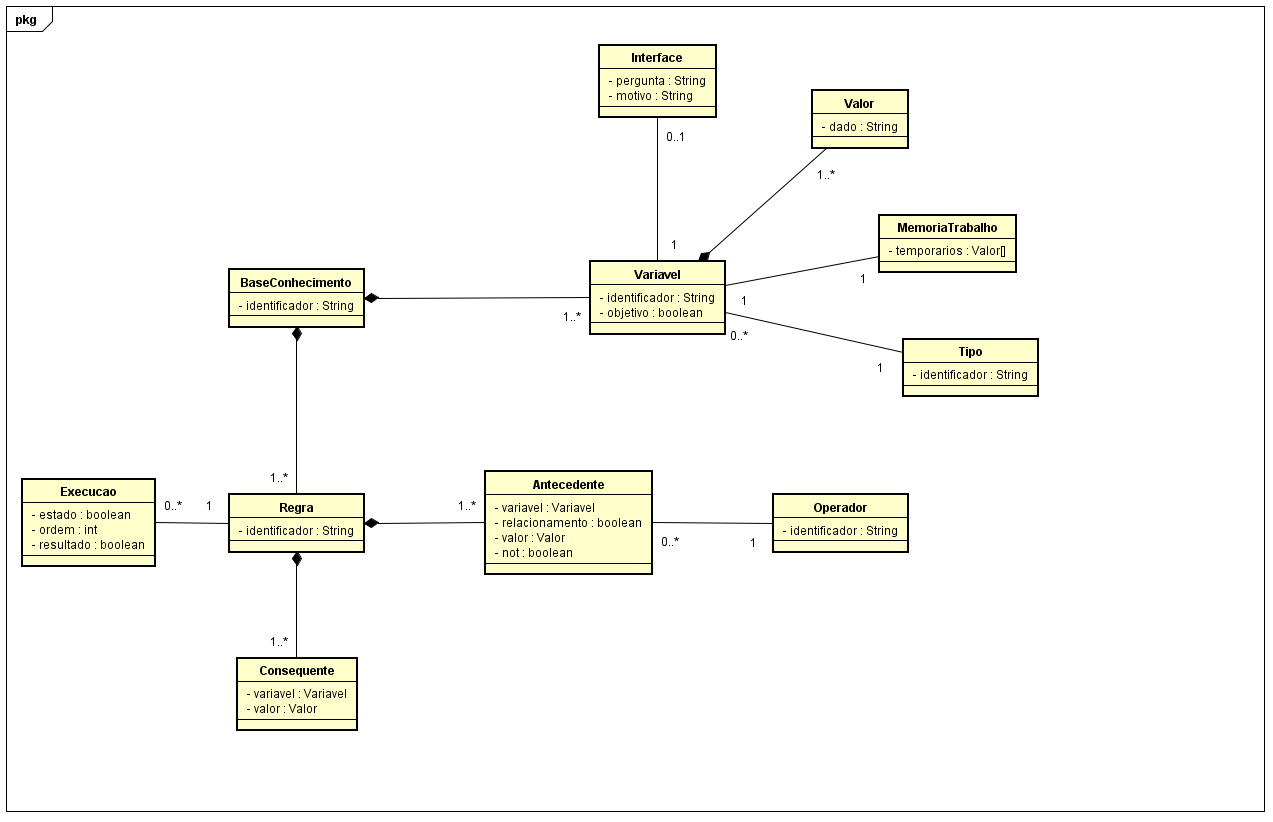
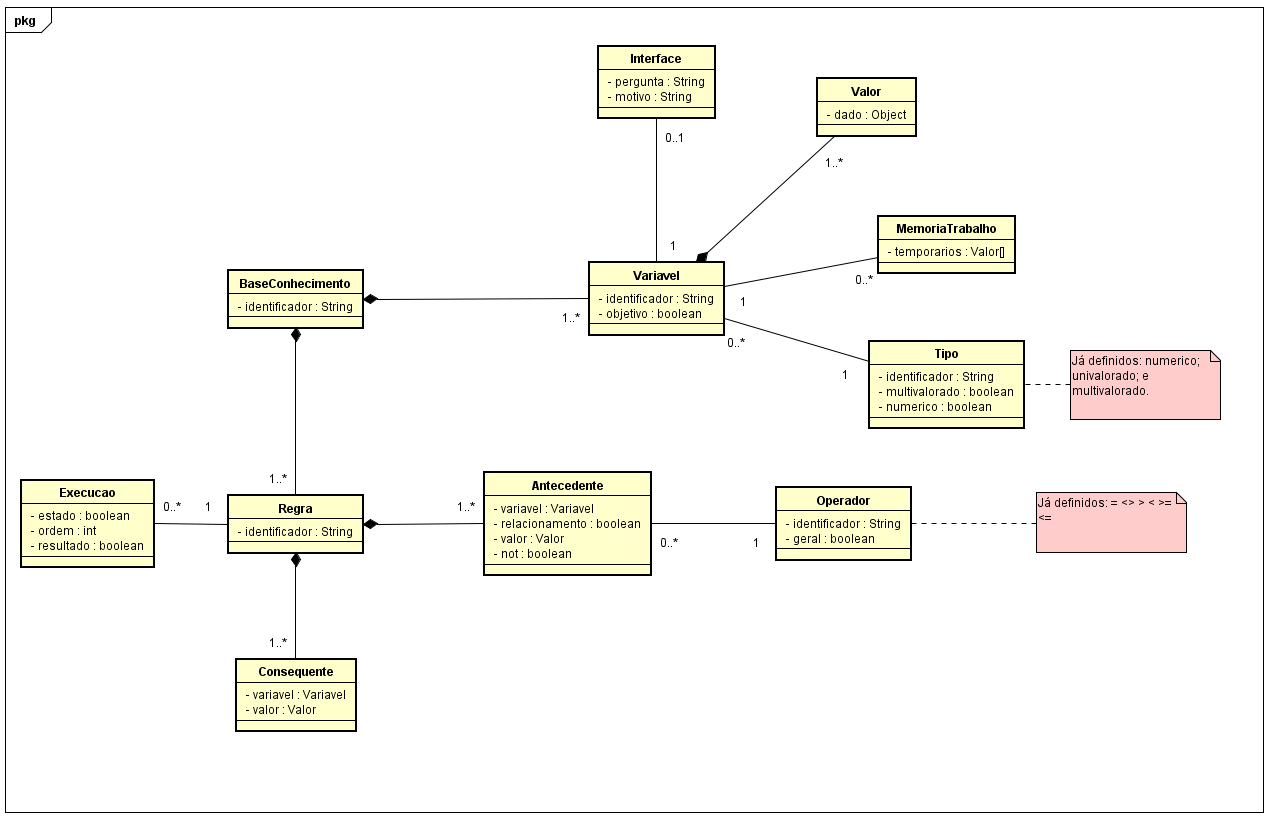
correção Valor e modelagem

diff --git a/Base de Conhecimento/BaseConhecimento/test/instancias/Inicial.java b/Base de Conhecimento/BaseConhecimento/test/instancias/Inicial.java
@@ -31,7 +31,7 @@ public class Inicial {
         base.getRegra("avaliar_caro").criarAntecedente(base.getVariavel("custo"), new Valor(1000), teste.getOperador(">="));
         base.getRegra("avaliar_caro").criarConsequente(base.getVariavel("avaliacao"), base.getVariavel("avaliacao").getValor("caro"));
         base.criarRegra("avaliar_barato");
-        base.getRegra("avaliar_barato").criarAntecedente(base.getVariavel("custo"), new Valor("1000"), teste.getOperador("<"));
+        base.getRegra("avaliar_barato").criarAntecedente(base.getVariavel("custo"), new Valor(1000), teste.getOperador("<"));
         base.getRegra("avaliar_barato").criarConsequente(base.getVariavel("avaliacao"), base.getVariavel("avaliacao").getValor("barato"));
         base.criarRegra("aprovar_compra");
         base.getRegra("aprovar_compra").criarAntecedente(base.getVariavel("avaliacao"), base.getVariavel("avaliacao").getValor("caro"), teste.getOperador("="));
